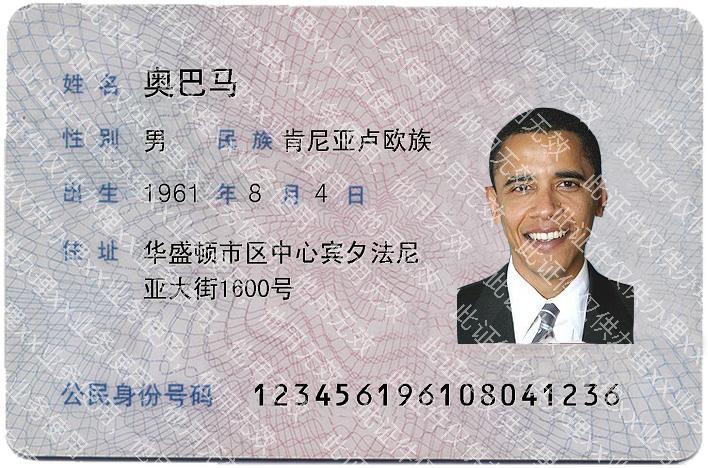
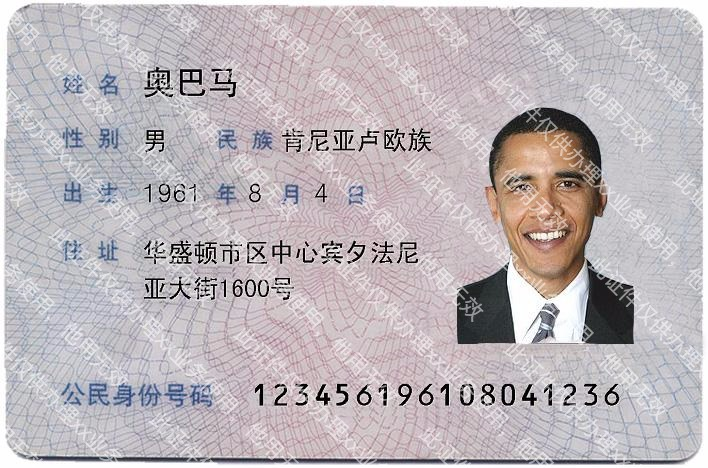
修改

diff --git a/src/main/resources/static/assets/js/app.js b/src/main/resources/static/assets/js/app.js
@@ -1,43 +1,47 @@
 $(function () {
-  $('#doc-form-file').on('change', function (e) {
-    var file = e.target.files[0];
-    var reader = new FileReader();
-    if (file && file.type.match('image.*')) {
-      reader.readAsDataURL(file);
-    } else {
-      return false;
+    $('#doc-form-file').on('change', function (e) {
+        var file = e.target.files[0];
+        var reader = new FileReader();
+        if (file && file.type.match('image.*')) {
+            reader.readAsDataURL(file);
+        } else {
+            return false;
+        }
+        reader.onload = function (e) {
+            var data = e.target.result,
+                image = new Image();
+
+            image.src = data;
+            image.onload = function () {
+                WaterMark.mark({
+                    text: $("#markText").val(),
+                    id: "myCanvas",
+                    color: '#fff',
+                    xStart: 0,
+                    yStart: -1000,
+                    xSpace: 20,
+                    ySpace: 30,
+                    size: 18,
+                    rotate: 45,
+                    opacity: 0.8,
+                    width: image.width,
+                    height: image.height,
+                    imgUrl: data
+                });
+            };
+            setTimeout(function () {
+                $("#result").attr("src", document.getElementById("myCanvas").toDataURL("image/png"));
+            }, 100);
+        }
+
+    });
+
+    $('#download').on('click', function () {
+        downloadCanvas(this, 'myCanvas', 'SimpleTool.png');
+    });
+
+    function downloadCanvas(link, canvasId, filename) {
+        link.href = document.getElementById(canvasId).toDataURL();
+        link.download = filename;
     }
-    reader.onload = function (e) {
-      var data = e.target.result,
-        image = new Image();
-
-      image.src = data;
-      image.onload = function () {
-        WaterMark.mark({
-          text: "此证件仅供办理xx业务使用，他用无效",
-          id: "myCanvas",
-          color: '#fff',
-          xStart: 0,
-          yStart: -1000,
-          xSpace: 20,
-          ySpace: 30,
-          size: 18,
-          rotate: 45,
-          opacity: 0.8,
-          width: image.width,
-          height: image.height,
-          imgUrl: data
-        });
-      };
-    }
-  });
-
-  $('#download').on('click', function () {
-    downloadCanvas(this, 'myCanvas', 'test.png');
-  });
-
-  function downloadCanvas(link, canvasId, filename) {
-    link.href = document.getElementById(canvasId).toDataURL();
-    link.download = filename;
-  }
 });

diff --git a/src/main/resources/static/assets/css/index.css b/src/main/resources/static/assets/css/index.css
@@ -27,12 +27,14 @@ body {
 .example img{
     display: block;
     margin: auto;
-    max-height: 500px;
-    max-width: 80%;
+    max-height: 100% !important;
 }
 .example .text{
     text-align: center;
 }
 .am-form-horizontal .am-form-label{
     text-align: center;
+}
+#myCanvas{
+    display: none;
 }
